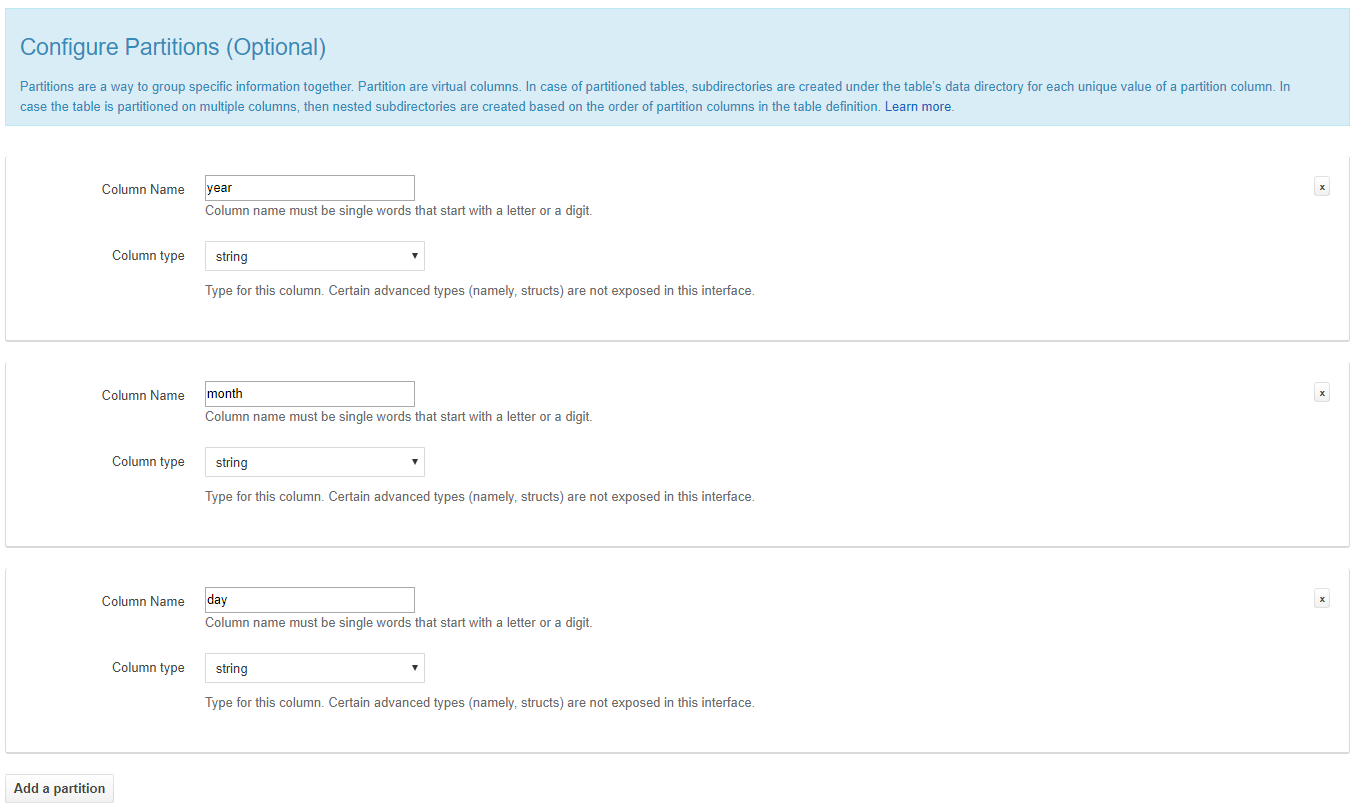
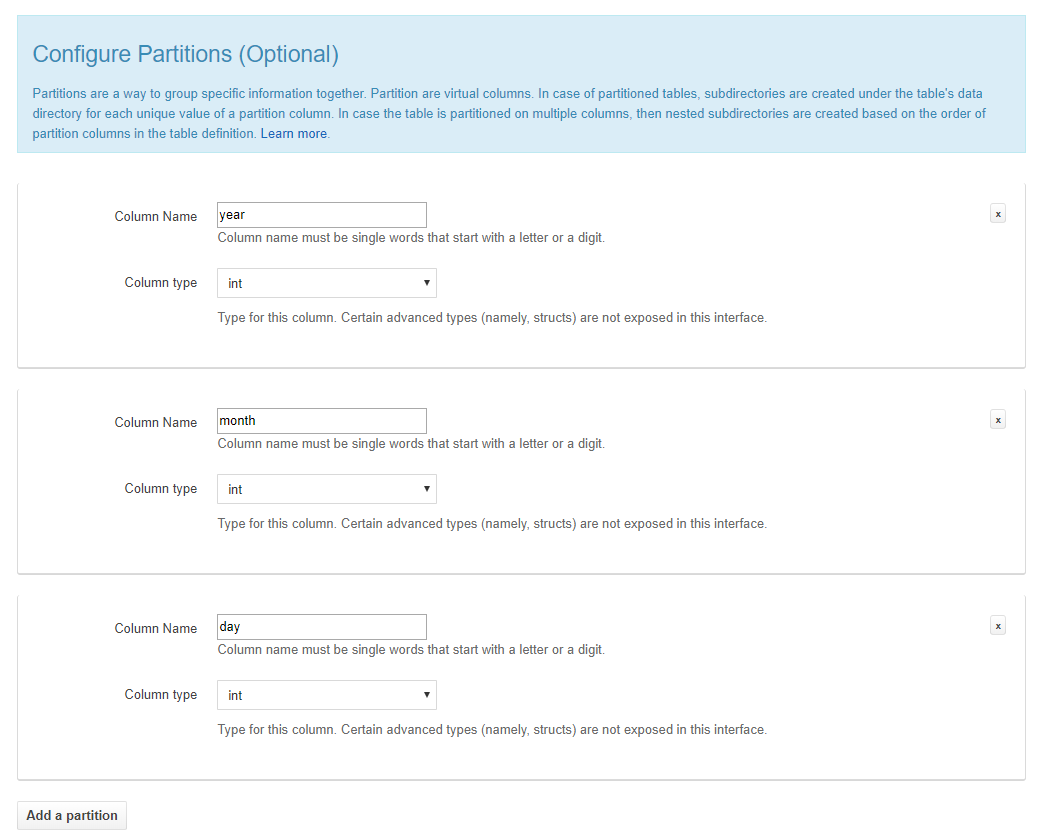
아테나 파티션 포스팅에 쿼리 내용 추가

diff --git a/md/Amazon_Web_Services/[Athena]테이블_파티셔닝.md b/md/Amazon_Web_Services/[Athena]테이블_파티셔닝.md
@@ -20,7 +20,7 @@ s3://hive-live-log/DEBUG/year=2018/month=03/day=03/
 s3://hive-live-log/DEBUG/dt=2018-03-03/
 ```
 
-이렇게 버킷을 생성하고 아테나에서 테이블 생성 시 파티션 컬럼을 설정하는 부분에서 아래와 같이 파티션 명에 맞춰서 컬럼을 생성한다.
+여기서 사용한 year, month, day, dt는 아테나에서 쿼리 시에 버킷 범위를 지정하기 위해 사용할 파티션 컬럼이다. 쿼리가 가능하도록 원하는 컬럼명과 형식으로 지정하면 되기 때문에 year, month, day로 컬럼명을 맞출 필요는 없다. 이렇게 버킷을 생성하고 아테나에서 테이블 생성 시 파티션 컬럼을 설정하는 부분에서 아래와 같이 파티션 명에 맞춰서 컬럼을 생성한다.
 
 ![](images/athena_partitioning.png)
 
@@ -56,7 +56,35 @@ Alter Table <tablename> add Partition (PARTITION_COLUMN_NAME = <VALUE>, PARTITIO
 예를 들면 아래와 같다.
 
 ```
-Alter Table debug_partitioned add Partition (year='2018', month='03', day='03') LOCATION ‘s3://hive-live-log/DEBUG/2018/03/03/
+Alter Table debug_partitioned add Partition (year=2018, month=3, day=3) LOCATION ‘s3://hive-live-log/DEBUG/2018/03/03/
+```
+
+
+
+## 쿼리
+
+쿼리 시에는 파티션 컬럼으로 지정한 값으로 범위를 지정해 주어야 파티셔닝이 적용된 쿼리가 수행된다.  먼저 파티션 설정이 되어 있지 않은 테이블에서의 쿼리를 살펴보자.
+
+```sql
+SELECT * FROM "hive_live"."trace" where timestamp between timestamp '2017-12-10 00:00:00.000' and timestamp '2017-12-11 00:00:00.000' order by timestamp desc limit 10;
+```
+
+hive_live라는 데이터베이스의 trace 테이블에서 쿼리를 수행하는데, 이 테이블은 trace 로그에 대한 모든 날짜에 대해 쿼리를 수행한다.  전체 파일을 대상으로 쿼리를 수행했기 때문에 스캔 한 파일의 크기가 굉장히 크고, 쿼리를 수행하는데 걸린 시간도 오래걸렸다.
+
+```
+(Run time: 32.07 seconds, Data scanned: 481.38GB) 
+```
+
+이제 파티션이 적용된 테이블에서 쿼리를 수행해보도록 하자. 동일한 쿼리를 아래와 같이 파티션 컬럼과 함께 수행한다.
+
+```sql
+SELECT * FROM "hive_live"."trace_partitioned" where timestamp between timestamp '2017-12-10 00:00:00.000' and timestamp '2017-12-11 00:00:00.000' and year = 2017 and month = 12 and day = 10 order by timestamp desc limit 10;
+```
+
+그러면 파티션 컬럼인 year, month, day에 의해 매핑되는 S3 버킷만을 참조하기 때문에 스캔 범위가 굉장히 축소된다. 이로 인해 비용도 줄일 수 있고 쿼리 시간도 단축시킬 수 있게 된다.
+
+```
+(Run time: 4.72 seconds, Data scanned: 3.84GB) 
 ```
 
 
